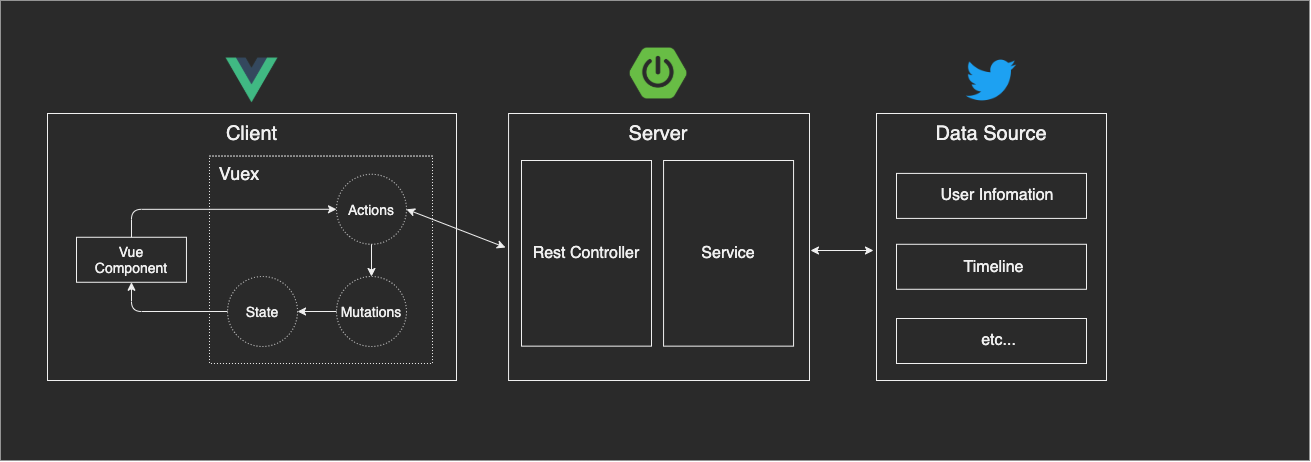
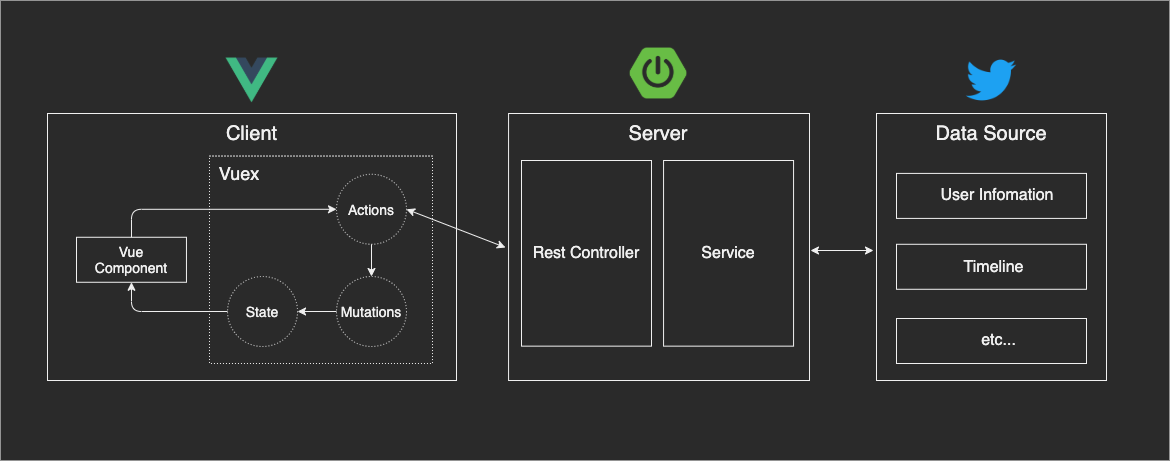
README 完成

diff --git a/README.md b/README.md
@@ -32,7 +32,7 @@ https://visutter.azurewebsites.net/
     $ git clone https://github.com/kooooichi24/Visutter.git
     ```
 
-3. NPMパッケージのインストール
+3. npmパッケージのインストール
 
     ```bash
     $ cd Visutter/frontend
@@ -76,21 +76,21 @@ https://visutter.azurewebsites.net/
     $ npm run serve
     ```
 
-## Usage
+## Architecture
+![Architecture](./architecture/architecture_diagram.png)
 
-## Roadmap
+## Technologies
+- Vue.js 2系
+- TypeScript 3系
+- vuex 3系
+- vuetify 2系
+- SpringBoot 2系
+- Docker
+- Microsoft Azure
 
-## Roadmap
-
-## License
-
-## Contact
-
-
-
-## サービス概要
-
-## モチベーション
-## 起動手順
-
-## 使用技術
+## Contributing
+1. Fork the Project
+2. Create your Feature Branch (git checkout -b feature/AmazingFeature)
+3. Commit your Changes (git commit -m 'Add some AmazingFeature')
+4. Push to the Branch (git push origin feature/AmazingFeature)
+5. Open a Pull Request
